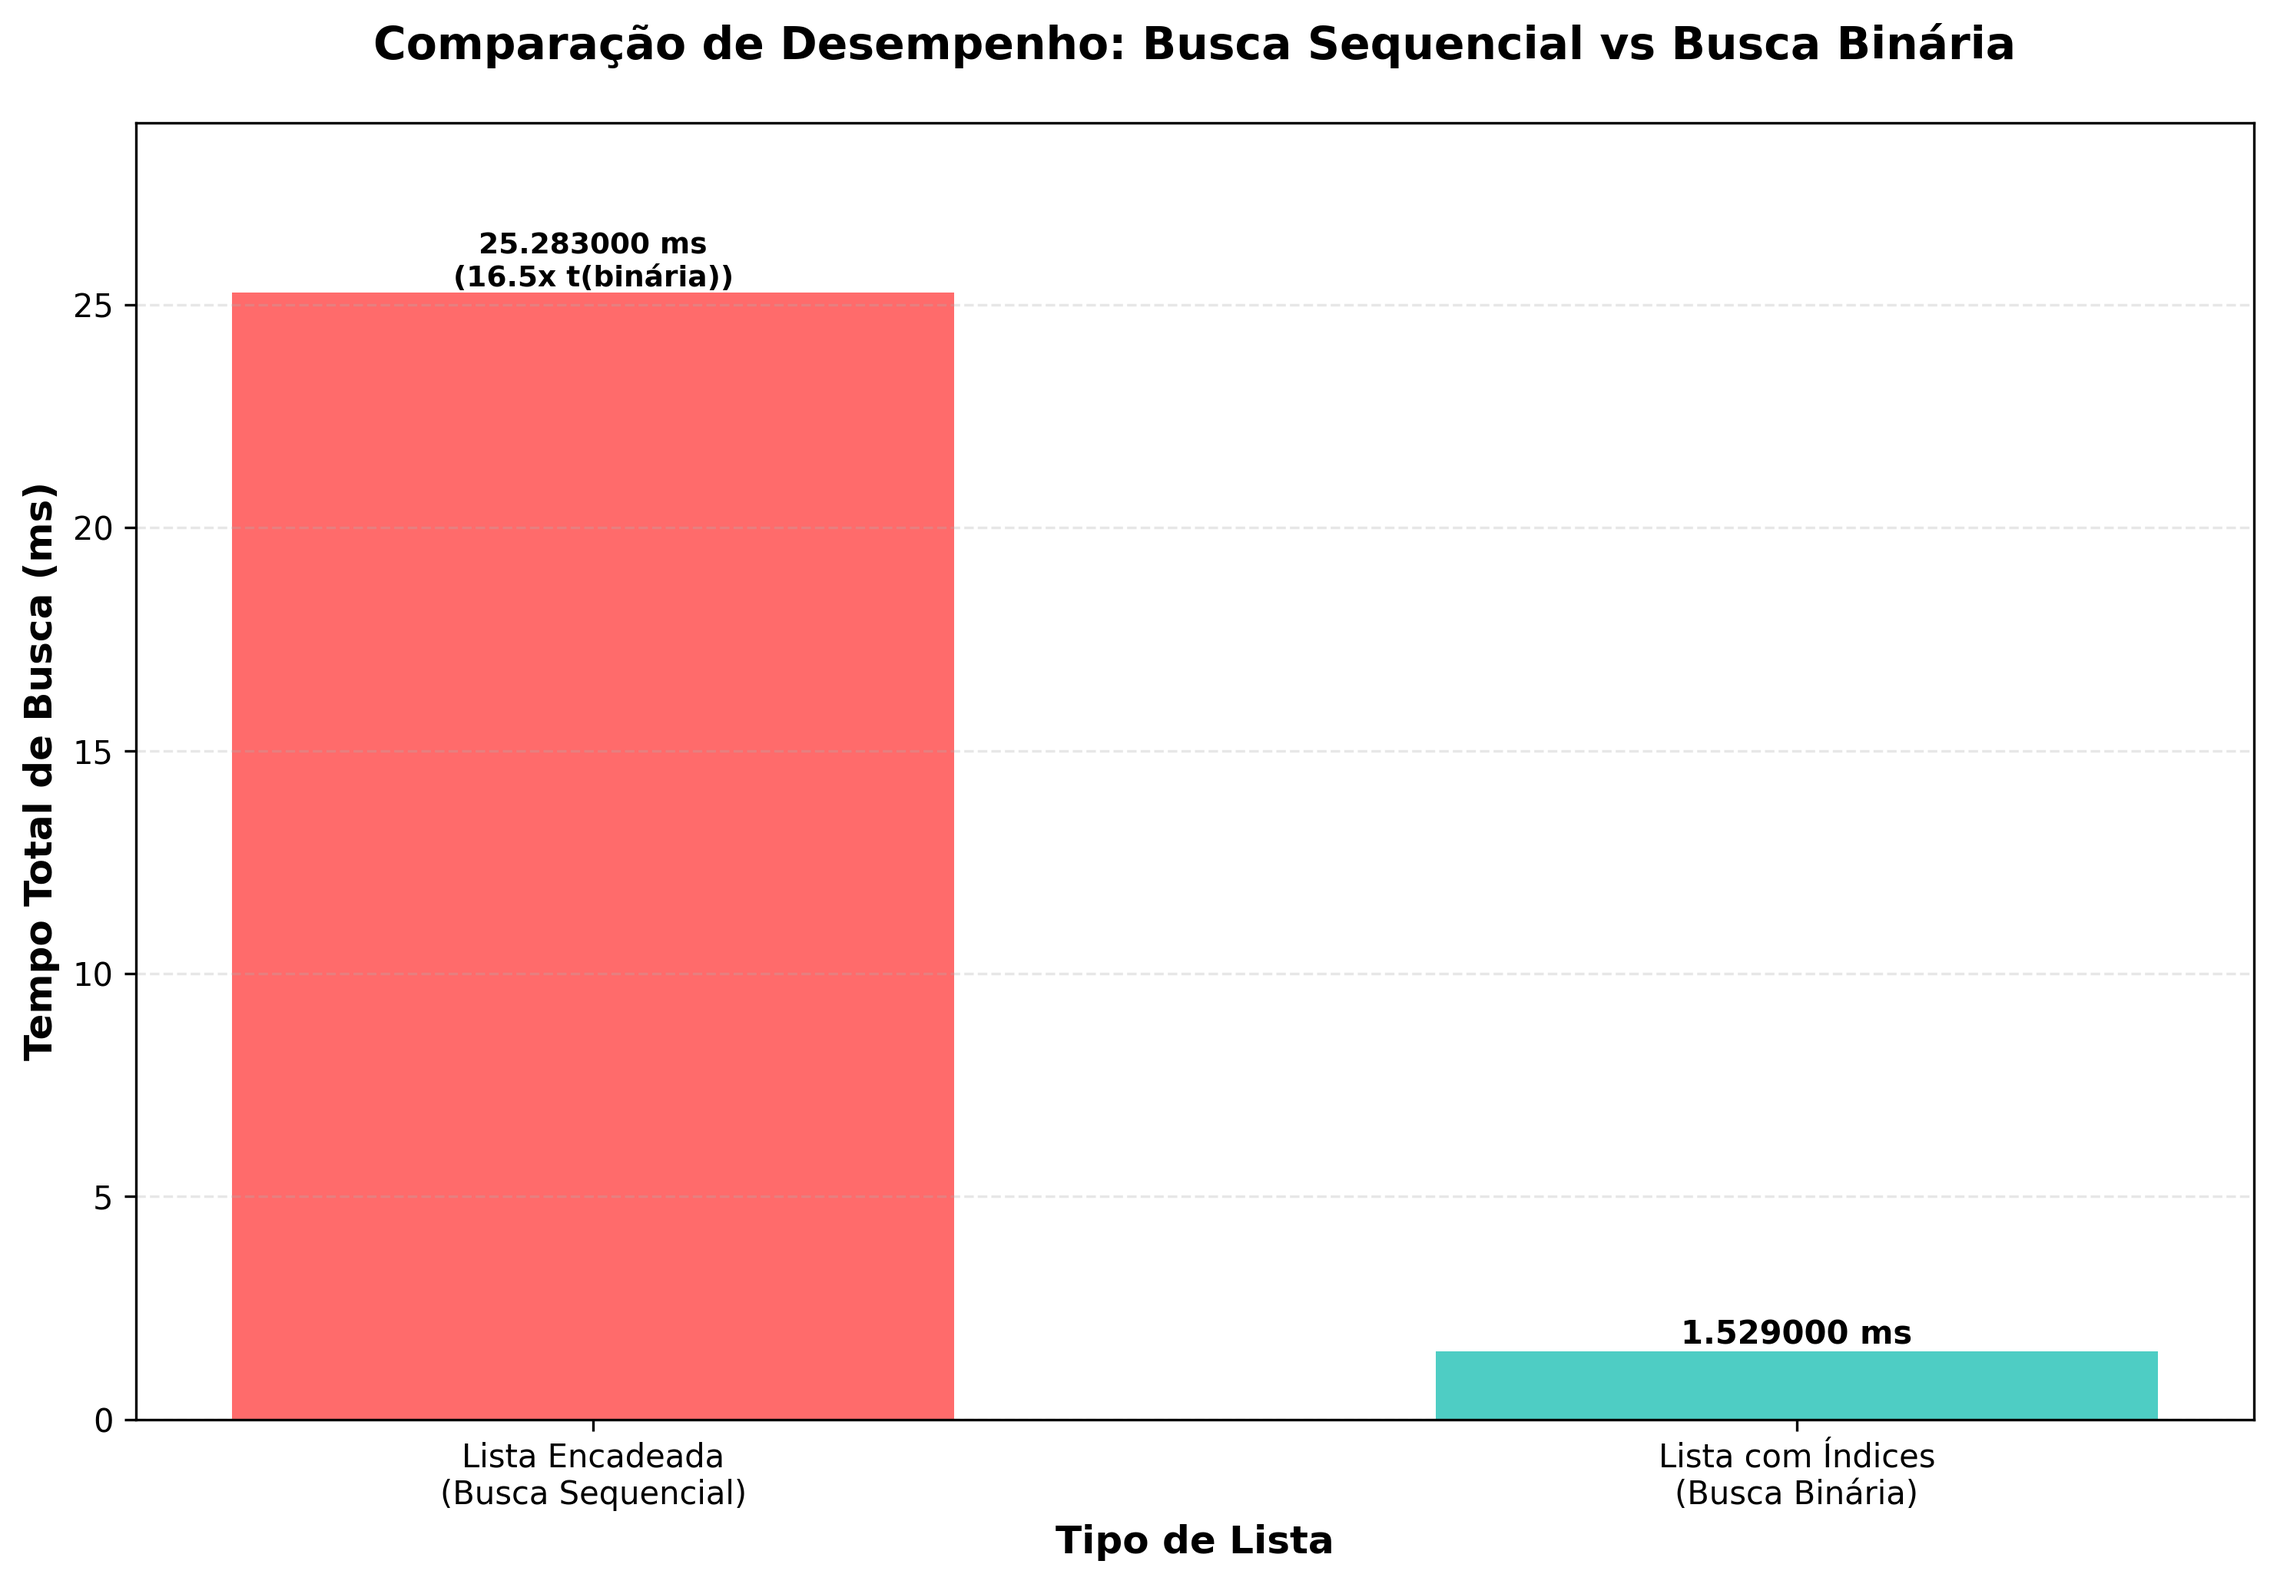
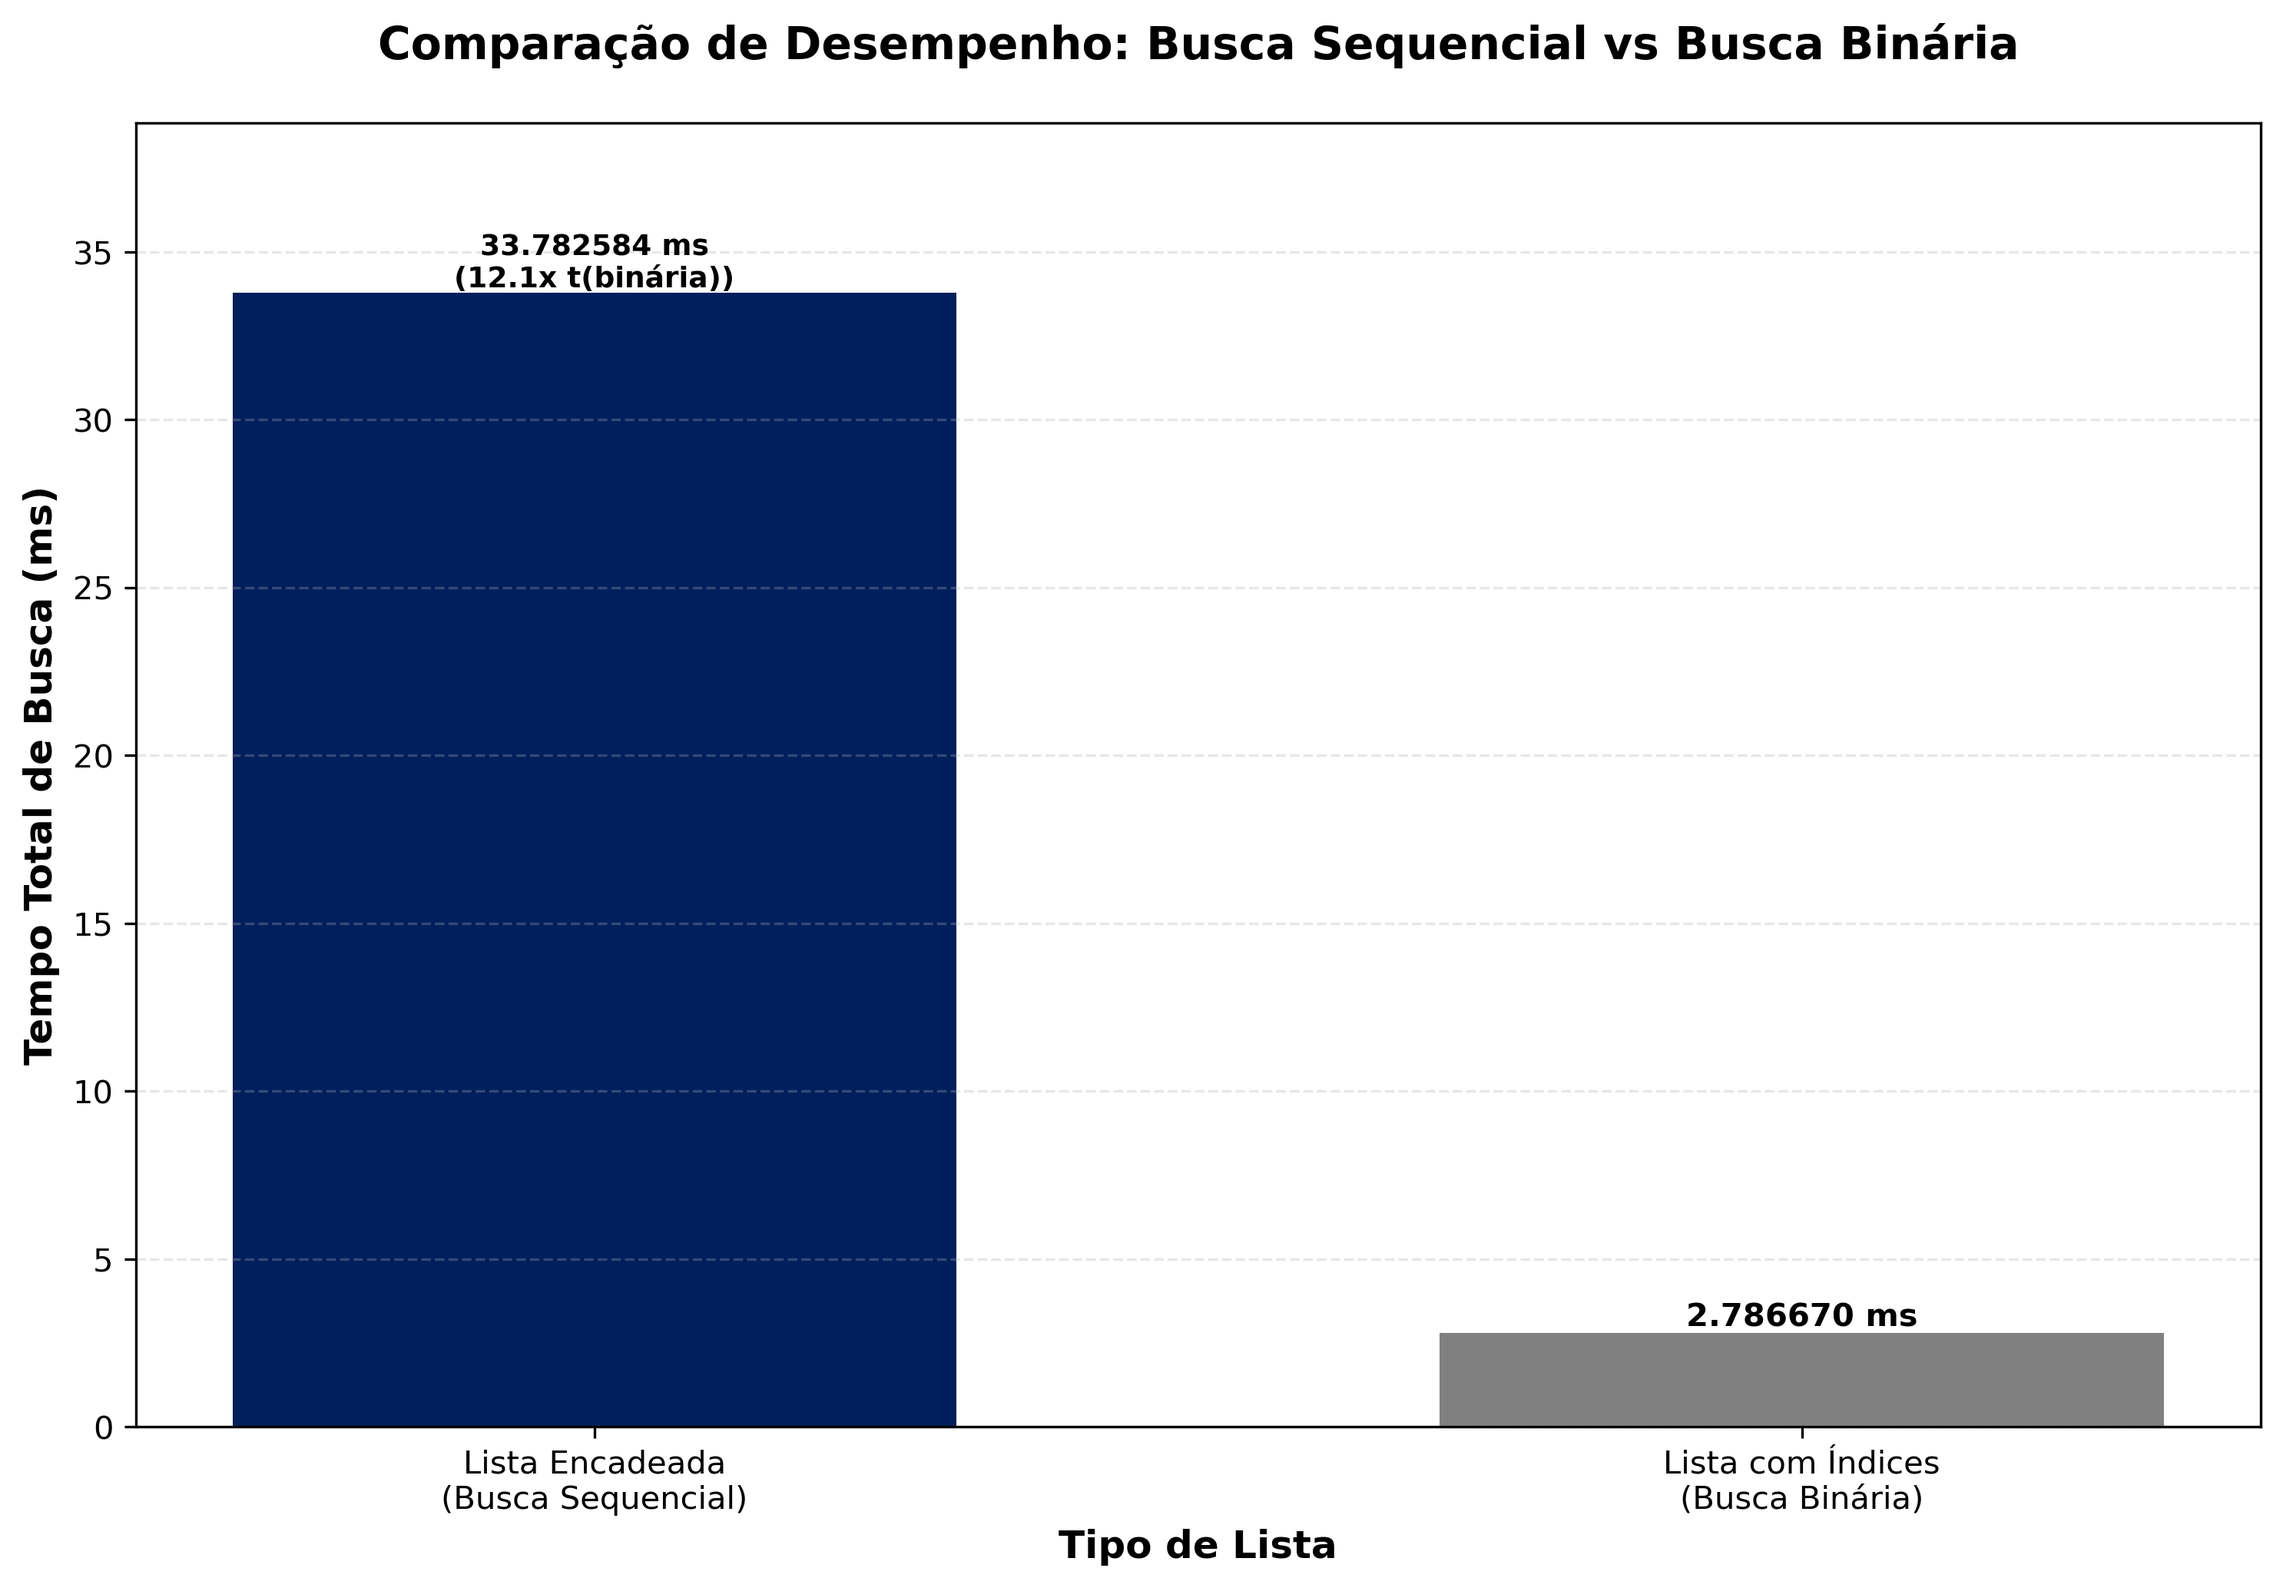
mudanças no gráfico

diff --git a/projeto_1/projeto_1.py b/projeto_1/projeto_1.py
@@ -153,7 +153,7 @@ def main():
     tempos_totais = [total_tempo_busca_sequencial * 1000, total_tempo_busca_binaria * 1000]  # Converter para ms
     
     plot.figure(figsize=(10, 7))
-    barras = plot.bar(categorias, tempos_totais, color=['#FF6B6B', '#4ECDC4'], width=0.6)
+    barras = plot.bar(categorias, tempos_totais, color=['#001F5C', '#808080'], width=0.6)
     
     # Calcular fator comparativo
     if total_tempo_busca_sequencial > total_tempo_busca_binaria:
